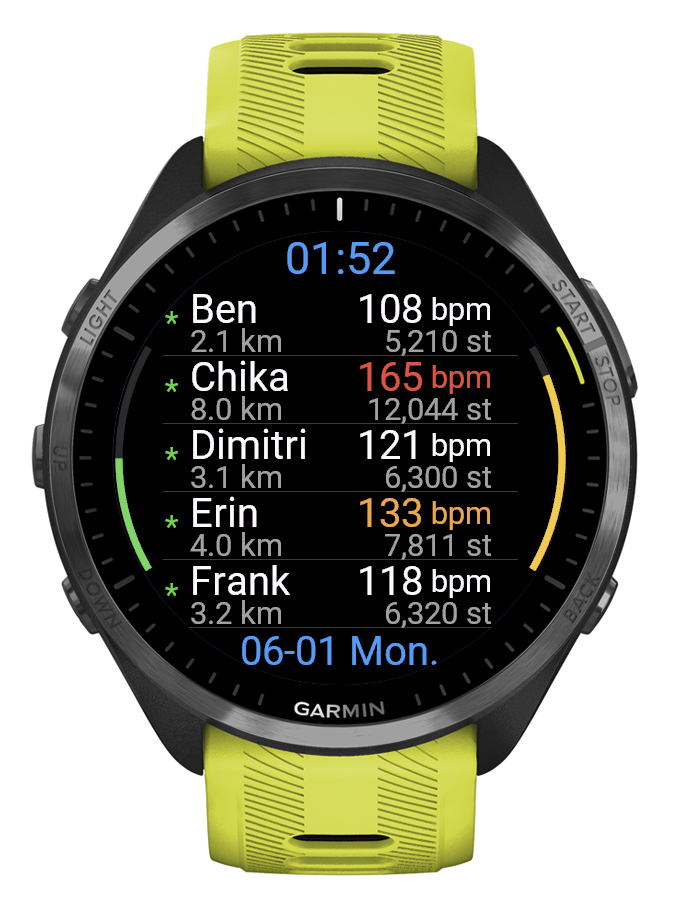
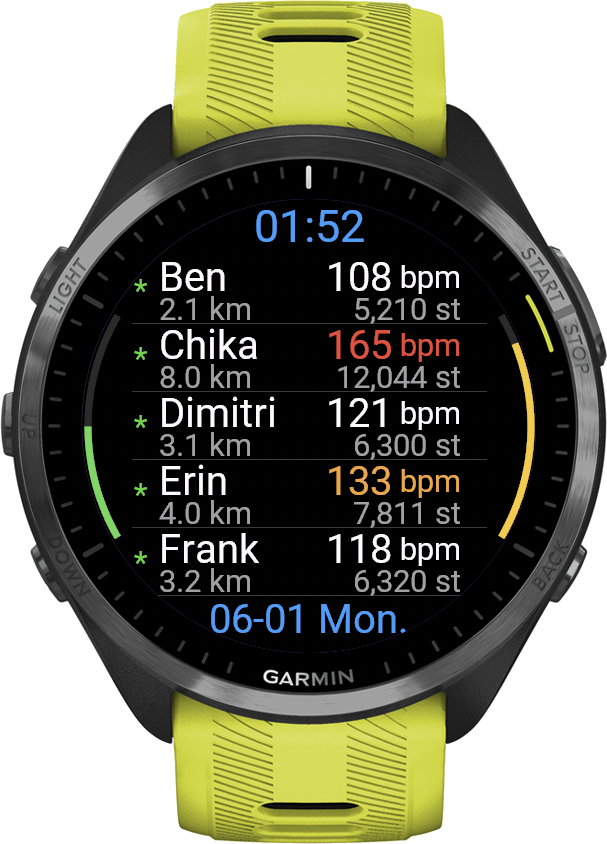
pulselink: hero with transparent watch-face screenshots, drop visible title
- Replace the left hero image with a new Watch Face Home shot (custom image +
  weather/physical bars), cropped with a transparent background.
- Make the right hero image (Member list) transparent and trim to match.
- Hide the visible <h1> title (kept screen-reader-only for SEO/accessibility).
- Update the left image's label/alt to "Watch Face Home".

diff --git a/pulselink/index.html b/pulselink/index.html
@@ -169,7 +169,7 @@
   <div class="hero">
     <div>
       <div class="hero-tag" data-en="14-day free trial" data-ja="14日間無料トライアル">14-day free trial</div>
-      <h1><em>Pulse</em><br>Link</h1>
+      <h1 style="position:absolute; width:1px; height:1px; padding:0; margin:-1px; overflow:hidden; clip:rect(0 0 0 0); border:0;">PulseLink</h1>
       <p class="hero-desc" data-en="Share your heart rate, steps and distance live with running friends or loved ones on your Garmin wrist. Leader-led Crews with invite codes, up to 20 template messages, and a real-time Member view designed for groups of 2-8 people. Members join free — only the Leader subscribes." data-ja="ランニング仲間や大切な家族と、心拍数・歩数・距離をGarminウォッチでリアルタイム共有。リーダー主導の招待コード制Crew、最大20の定型メッセージ、2〜8名のグループに最適化されたリアルタイム表示。メンバーは完全無料 — リーダーだけがサブスクリプション登録します。">Share your heart rate, steps and distance live with running friends or loved ones on your Garmin wrist. Leader-led Crews with invite codes, up to 20 template messages, and a real-time Member view designed for groups of 2-8 people. Members join free — only the Leader subscribes.</p>
       <div class="hero-cta">
         <a href="https://apps.garmin.com/en-US/apps/bb7dfaab-d831-4206-a135-be7fc8fd0226" data-en-href="https://apps.garmin.com/en-US/apps/bb7dfaab-d831-4206-a135-be7fc8fd0226" data-ja-href="https://apps.garmin.com/ja-JP/apps/bb7dfaab-d831-4206-a135-be7fc8fd0226" class="btn-primary" data-en="Start 14-Day Free Trial" data-ja="14日間の無料トライアルを開始">Start 14-Day Free Trial</a>
@@ -179,8 +179,8 @@
     </div>
     <div class="screenshots">
       <div class="screenshot">
-        <img src="screenshot_Crew.png" alt="PulseLink live Crew view with weather sharing">
-        <div class="screenshot-label" data-en="Live Crew + Weather" data-ja="Crew表示＋気象">Live Crew + Weather</div>
+        <img src="screenshot_Crew.png" alt="PulseLink watch face with custom image, weather and physical bars">
+        <div class="screenshot-label" data-en="Watch Face Home" data-ja="文字盤ホーム">Watch Face Home</div>
       </div>
       <div class="screenshot">
         <img src="screenshot_members.png" alt="PulseLink Member list with live heart rate">
